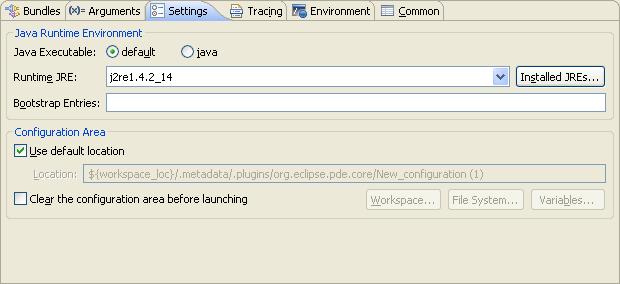
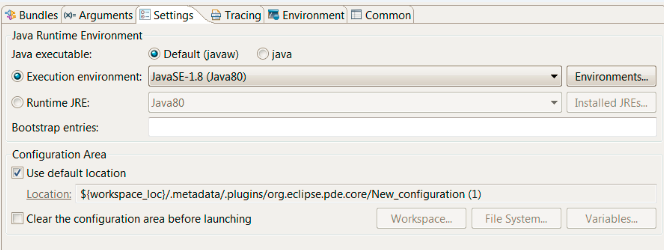
Bug 534579 - Improve documentation for default in Run/Debug configuration dialog

diff --git a/bundles/org.eclipse.pde.doc.user/guide/tools/launchers/eclipse_main.htm b/bundles/org.eclipse.pde.doc.user/guide/tools/launchers/eclipse_main.htm
@@ -26,7 +26,7 @@
 <p>The <strong>Run a product</strong> option is selected by default, because testing a product (a branded application) makes for a richer experience than testing a plain application. </p>
 
 <h2>Java Executable</h2>
-<p>The <strong>Java Executable</strong> option allows you to specify the executable to run the Eclipse Application with.  For example, on <em>Windows</em> you can override the default executable, <em>javaw.exe</em>, with <em>java.exe</em> if desired.
+<p>The <strong>Java Executable</strong> option allows you to specify the executable to run the Eclipse Application with. The default executable can vary but it is shown in the UI.
 </p>
 <h2>Java Runtime Environment</h2>
 <p>You can test your plug-in against the <em>Java Runtime Environment</em> (JRE) of your choice; furthermore, this runtime JRE does not necessarily have to be the same JRE (with associated SDK) utilized to compile the workspace plug-ins. </p>

diff --git a/bundles/org.eclipse.pde.doc.user/guide/tools/launchers/equinox_settings.htm b/bundles/org.eclipse.pde.doc.user/guide/tools/launchers/equinox_settings.htm
@@ -14,7 +14,7 @@
 <h1><img src="../../images/launchers/launcher_equinox_settings.png" alt="Equinox Settings" > </h1>
 
 <h2>Java Executable</h2>
-<p>The <STRONG>Java Executable</STRONG> option allows you to specify the executable to run the <em>Equinox OSGi Framework</em> with. For example, on <em>Windows</em> you can override the default executable, <em>javaw.exe</em>, with <em>java.exe</em> if desired.</p>
+<p>The <STRONG>Java Executable</STRONG> option allows you to specify the executable to run the <em>Equinox OSGi Framework</em> with. The default executable can vary but it is shown in the UI.</p>
 
 <h2>Java Runtime Environment</h2>
 <p>You can test your bundle against the Java Runtime Environment (JRE) of your   choice; furthermore, this runtime JRE does not necessarily have to be the same JRE (with associated SDK) utilized to compile the workspace bundles. </p>

diff --git a/bundles/org.eclipse.pde.doc.user/guide/tools/launchers/junit_main.htm b/bundles/org.eclipse.pde.doc.user/guide/tools/launchers/junit_main.htm
@@ -28,7 +28,7 @@
 <p><img src="../../images/launchers/launcher_junit_headless.PNG" alt="headless" > </p>
 
 <h2>Java Executable</h2>
-<p>The <strong>Java Executable</strong> option allows you to specify the executable to run the Eclipse Application with. For example, on <em>Windows</em> you can override the default executable, <em>javaw.exe</em>, with <em>java.exe</em> if desired. </p>
+<p>The <strong>Java Executable</strong> option allows you to specify the executable to run the Eclipse Application with. The default executable can vary but it is shown in the UI.</p>
 
 <h2>Java Runtime Environment</h2>
 <p>You can test your plug-in against the JRE of your choice; furthermore, this runtime JRE does not necessarily have to be the same JRE (with associated SDK) utilized to compile the workspace plug-ins. </p>
